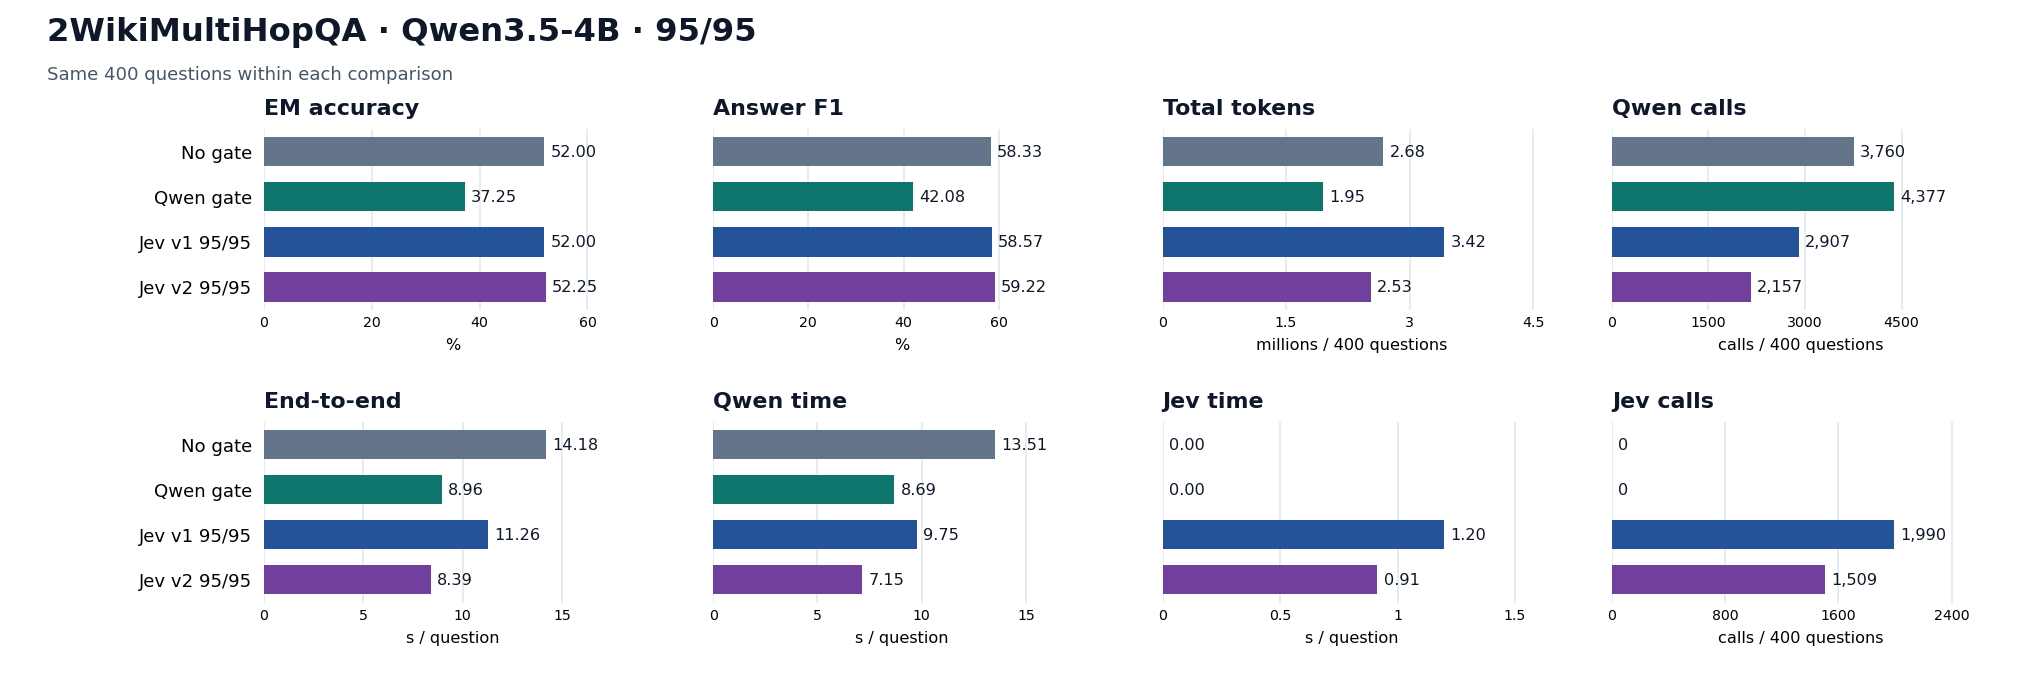
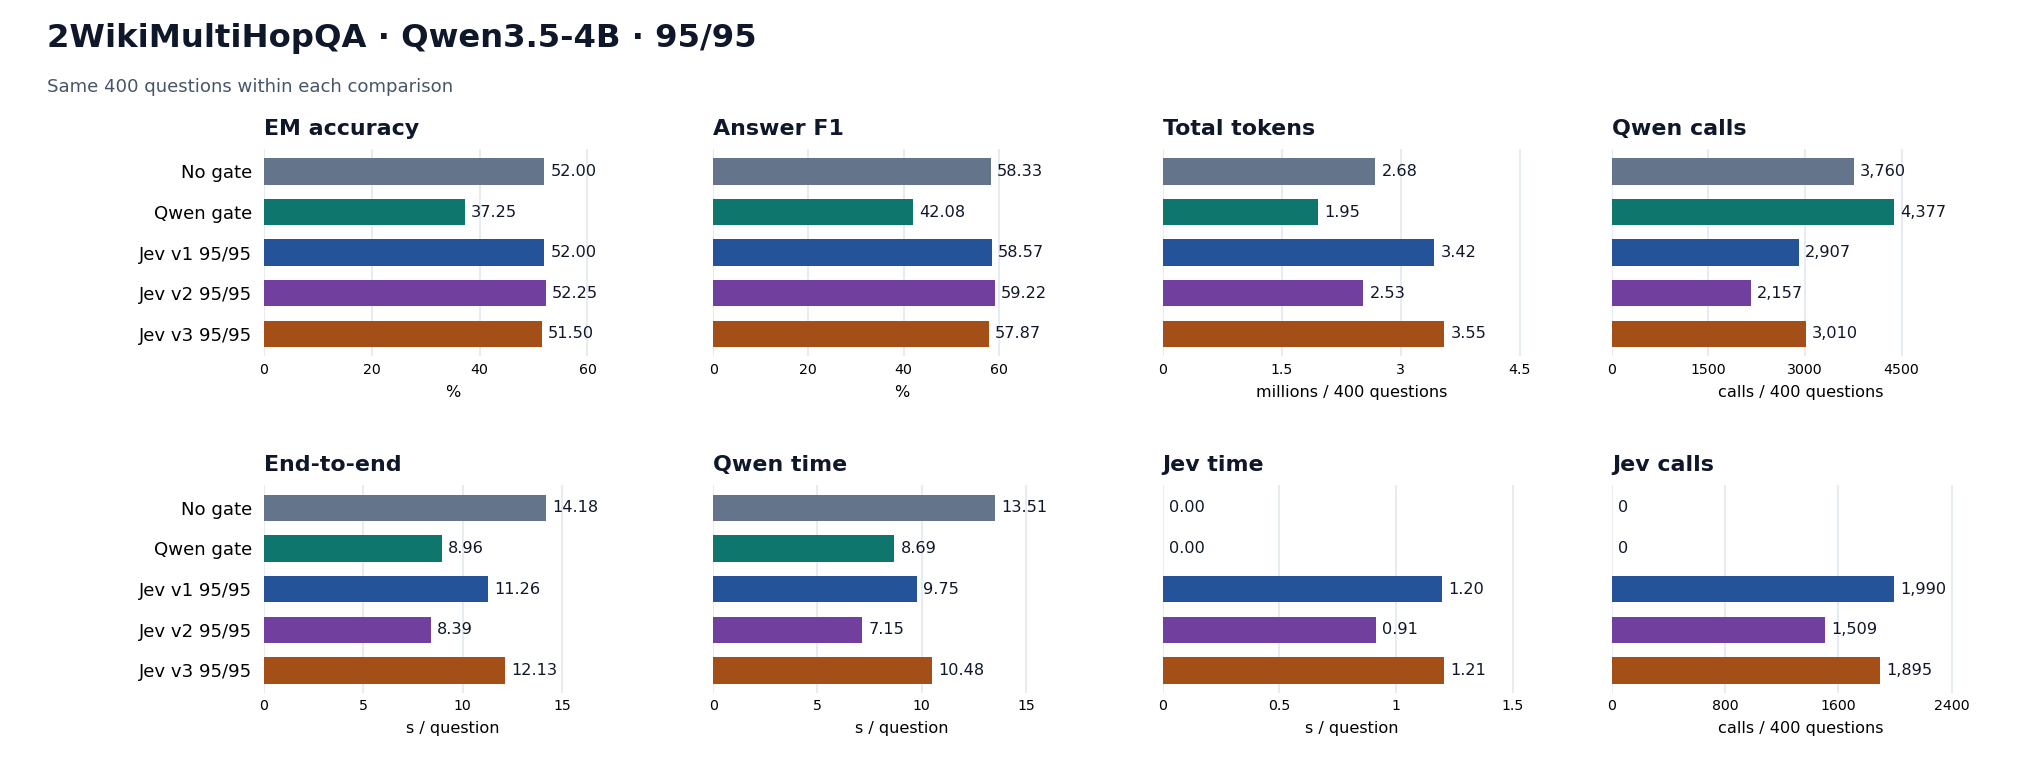
Publish Jev v3 benchmark figures and training method

diff --git a/README.md b/README.md
@@ -33,7 +33,7 @@ Toolbox releases use `toolbox-vX.Y.Z`. Joint gate checkpoints use `jev-joint-vN`
 | --- | --- | --- |
 | `jev-joint-v1` | Joint training on the original sufficiency data and teacher-labeled necessity data | [Download weights](models/README.md#download-v1-weights) |
 | `jev-joint-v2` | Joint training on draft sufficiency from recorded RAG trajectories and the original necessity data | [Download weights](models/README.md#download-v2-weights) |
-| `jev-joint-v3` | Gate supervision from paired rollouts at the same state, following Wang et al.'s conditional interaction framework | Release pending |
+| `jev-joint-v3` | Gate supervision from paired rollouts at the same state, following Wang et al.'s conditional interaction framework | [Training method](docs/TRAINING.md#v3-supervision-from-paired-rollouts) · Weights pending |
 
 | Decision | Input | Output |
 | --- | --- | --- |
@@ -54,25 +54,29 @@ Figures are grouped by the **Qwen generator**. Jev v1, v2, and v3 identify the *
 
 ![HotpotQA 400 ablations and baselines with Qwen 4B and Jev v2](results/figures/hotpotqa-qwen4b-v2-ablation.png)
 
-**95/95 comparison on matched questions.** HotpotQA and 2Wiki use their respective baselines. The figures show v1 and v2, with v3 to be added after evaluation. [HotpotQA data](results/HOTPOTQA400_V2.md) · [2Wiki data](results/2WIKIMULTIHOPQA400_V2.md)
+![HotpotQA 400 ablations and baselines with Qwen 4B and Jev v3](results/figures/hotpotqa-qwen4b-v3-ablation.png)
 
-![HotpotQA 400 baselines and Jev v1 and v2 at 95/95 with Qwen 4B](results/figures/hotpotqa-qwen4b-9595.png)
+**95/95 comparison on matched questions.** HotpotQA and 2Wiki use their respective baselines. The figures compare Jev v1, v2, and v3 at fixed thresholds. [HotpotQA data](results/HOTPOTQA400_V2.md) · [2Wiki data](results/2WIKIMULTIHOPQA400_V2.md)
 
-![2WikiMultiHopQA 400 baselines and Jev v1 and v2 at 95/95 with Qwen 4B](results/figures/2wiki-qwen4b-9595.png)
+![HotpotQA 400 baselines and Jev v1, v2, and v3 at 95/95 with Qwen 4B](results/figures/hotpotqa-qwen4b-9595.png)
+
+![2WikiMultiHopQA 400 baselines and Jev v1, v2, and v3 at 95/95 with Qwen 4B](results/figures/2wiki-qwen4b-9595.png)
 
 ### Qwen3.5-9B
 
-**HotpotQA 400 ablations.** Jev v1 and v2 are each compared with the no-gate and Qwen-gate 9B baselines on the same questions.
+**HotpotQA 400 ablations.** Jev v1, v2, and v3 are each compared with the no-gate and Qwen-gate 9B baselines on the same questions.
 
 ![HotpotQA 400 ablations and baselines with Qwen 9B and Jev v1](results/figures/hotpotqa-qwen9b-v1-ablation.png)
 
 ![HotpotQA 400 ablations and baselines with Qwen 9B and Jev v2](results/figures/hotpotqa-qwen9b-v2-ablation.png)
 
-**95/95 comparison on matched questions.** HotpotQA and 2WikiMultiHopQA have 400 questions each. Outputs that reach the generation cap count as failures and remain in the score denominator and cost totals.
+![HotpotQA 400 ablations and baselines with Qwen 9B and Jev v3](results/figures/hotpotqa-qwen9b-v3-ablation.png)
 
-![HotpotQA 400 baselines and Jev v1 and v2 at 95/95 with Qwen 9B](results/figures/hotpotqa-qwen9b-9595.png)
+**95/95 comparison on matched questions.** HotpotQA and 2WikiMultiHopQA have 400 questions each. Capped outputs count as failures and remain in the denominator and cost totals.
 
-![2WikiMultiHopQA 400 baselines and Jev v1 and v2 at 95/95 with Qwen 9B](results/figures/2wiki-qwen9b-9595.png)
+![HotpotQA 400 baselines and Jev v1, v2, and v3 at 95/95 with Qwen 9B](results/figures/hotpotqa-qwen9b-9595.png)
+
+![2WikiMultiHopQA 400 baselines and Jev v1, v2, and v3 at 95/95 with Qwen 9B](results/figures/2wiki-qwen9b-9595.png)
 
 ## Documentation
 

diff --git a/docs/TRAINING.md b/docs/TRAINING.md
@@ -16,9 +16,22 @@ v1 and v2 each compare nine combinations of learning rates 5e-6, 1e-5, and 2e-5 
 
 The v3 design draws on Wang et al.'s (2026) conditional interaction framework, especially selective tool use in Section 6.3 and selective supervision in Section 7.2. Jev screens follow-ups before execution, RAG executes the actions, and offline replay supplies answer quality and call costs for supervision. Forking also executes actions skipped by the original gate so their outcomes can be observed. [Paper](https://arxiv.org/abs/2610.39497) · [Rationale for gating](CONDITIONAL_INTERACTION.md)
 
-Both execution and skipping are tested from the same question, evidence, draft, candidate follow-up, and remaining budget. Both branches use the same downstream rules. Final EM/F1 and call costs are recorded offline. The initial design takes pairs with one correct branch and one incorrect branch and uses the successful action as the binary LoRA target. Pairs where both branches are correct or both are wrong remain in the outcomes and are omitted from these labels. Each labeled pair produces one training sample whose input includes only the pre-fork state. All states and replays for one question share a split.
+### Labeling actions by downstream outcomes
 
-This design applies the paper's framework to the repository's iterative RAG pipeline. v3 release is pending.
+Both branches start at the same RAG state. Sufficiency compares continued retrieval with submitting the current draft. Necessity compares executing and skipping the follow-up. The downstream policy and budget stay fixed. The recorded outcomes include final EM/F1, Qwen calls, input and output tokens, and Qwen and Jev time.
+
+The earlier gates already reduced Qwen calls, so v3 prioritizes final answer quality and uses cost to break ties between successful actions. The main pipeline experiment keeps the v1 and v2 sufficiency and necessity thresholds at 95/95.
+
+| Observed branch outcomes | v3 training target |
+| --- | --- |
+| One branch is correct | Select the correct action |
+| Both are correct with different Qwen call counts | Select the action with fewer calls |
+| Both are correct with the same Qwen call count | Keep the outcome pair without a hard label |
+| Both are incorrect | Keep the outcome pair without a hard label |
+
+The audit records EM/F1 and costs for each pair. The model sees the pre-fork state in the decision prompt. The selected action serves as the training target. Post-fork answers, scores, costs, and reference answers are used for offline verification. All states from a question share a split. Labels reflect outcomes under the recorded generator, policy, and budget. Pairs with two wrong answers are counted separately.
+
+HotpotQA's official training split supplies 1,000 valid sufficiency pairs and 1,000 valid necessity pairs. The resulting 1,225 labels are stratified by gate and action with seed 42 into 985 train, 120 validation, and 120 test examples. Joint training uses the same nine training configurations. The fork validation score weights sufficiency and necessity 60% and 40%. The selected configuration uses effective batch 64 and learning rate 2e-5. The end-to-end benchmarks reuse the original question sets, generator-specific initial drafts, and search budgets.
 
 ## Single-task training interface
 

diff --git a/models/README.md b/models/README.md
@@ -6,7 +6,7 @@ Toolbox releases use `toolbox-vX.Y.Z`. Joint checkpoints and future checkpoint r
 | --- | --- | --- | --- |
 | `jev-joint-v1` | SufficiencyBench v1.1, 2,704 states | RAG-Necessity-987, 1,822 teacher-labeled states | [Download weights](#download-v1-weights), batch 16, learning rate 2e-5 |
 | `jev-joint-v2` | Draft sufficiency from recorded trajectories, 927 states | Same as v1 | [Download weights](#download-v2-weights), batch 16, learning rate 2e-5 |
-| `jev-joint-v3` | Uses v2 as the reference | Action labels from final outcomes after executing or skipping, following Wang et al.'s conditional interaction framework | [Training design](../docs/TRAINING.md#v3-supervision-from-paired-rollouts) · Release pending |
+| `jev-joint-v3` | Outcome labels from stopping or continuing retrieval | Outcome labels from executing or skipping a follow-up | [Training method](../docs/TRAINING.md#v3-supervision-from-paired-rollouts), batch 64, learning rate 2e-5 · Weights pending |
 
 `jev-joint-v2` was selected on a fixed split using validation accuracy weighted 60% for sufficiency and 40% for necessity. [Results and traces](../results/README.md)
 
